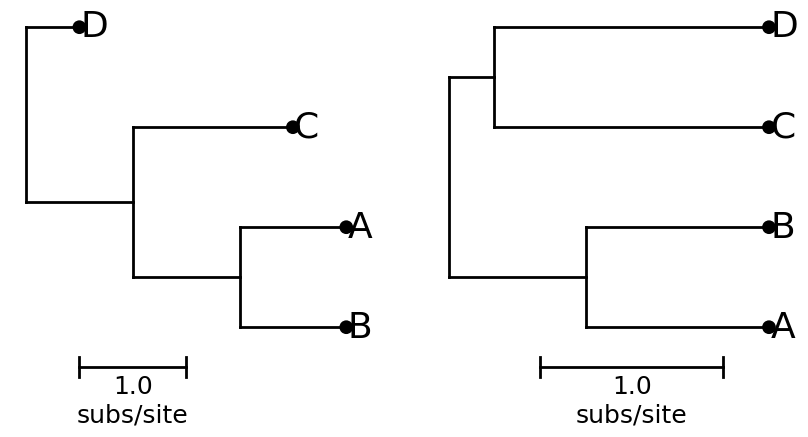
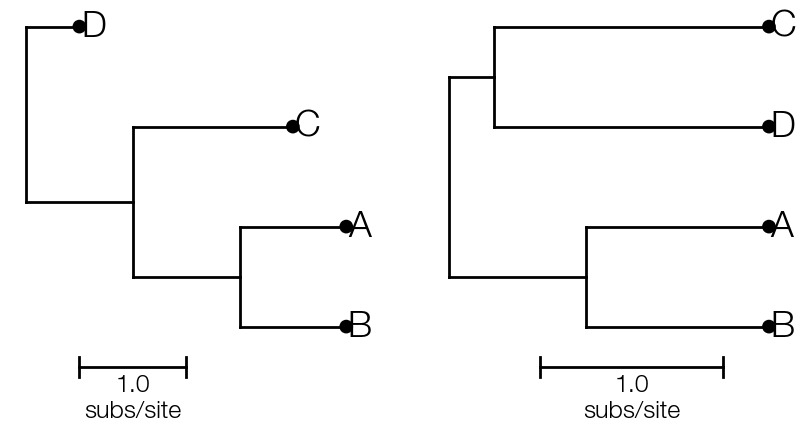
Update tutorial typefaces

diff --git a/docs/tutorials/basic-tree-colour.py b/docs/tutorials/basic-tree-colour.py
@@ -16,10 +16,12 @@ gs = GridSpec(1,1)
 
 ax = plt.subplot(gs[0])
 
-ll.plot_tree(ax, treeType = 'circular')
-ll.plot_text(ax, treeType = 'circular', size = 26)
-ll.plot_points(ax, treeType = 'circular')
+def colourFxn(node):
+    return 'maroon' if node.is_node() else 'deepskyblue'
+
+ll.plot_tree(ax, colourFxn=colourFxn)
+ll.plot_points(ax, colourFxn=colourFxn)
 
 bt_utils.clean_axes(ax)
 
-plt.savefig('basic-tree-circular.png', bbox_inches='tight')
+plt.savefig('basic-tree-colour.png', bbox_inches='tight')

diff --git a/docs/tutorials/basic-tree-invert.py b/docs/tutorials/basic-tree-invert.py
@@ -24,7 +24,7 @@ for k in ll.get_branches():
 commonAncestor = ll.find_MRCA(descendants)
 commonAncestor.children = commonAncestor.children[::-1]
 
-ll.plot_tree(ax)
+ll.plot_tree(ax, autoSort=False)
 ll.plot_text(ax, size = 26)
 ll.plot_points(ax)
 
